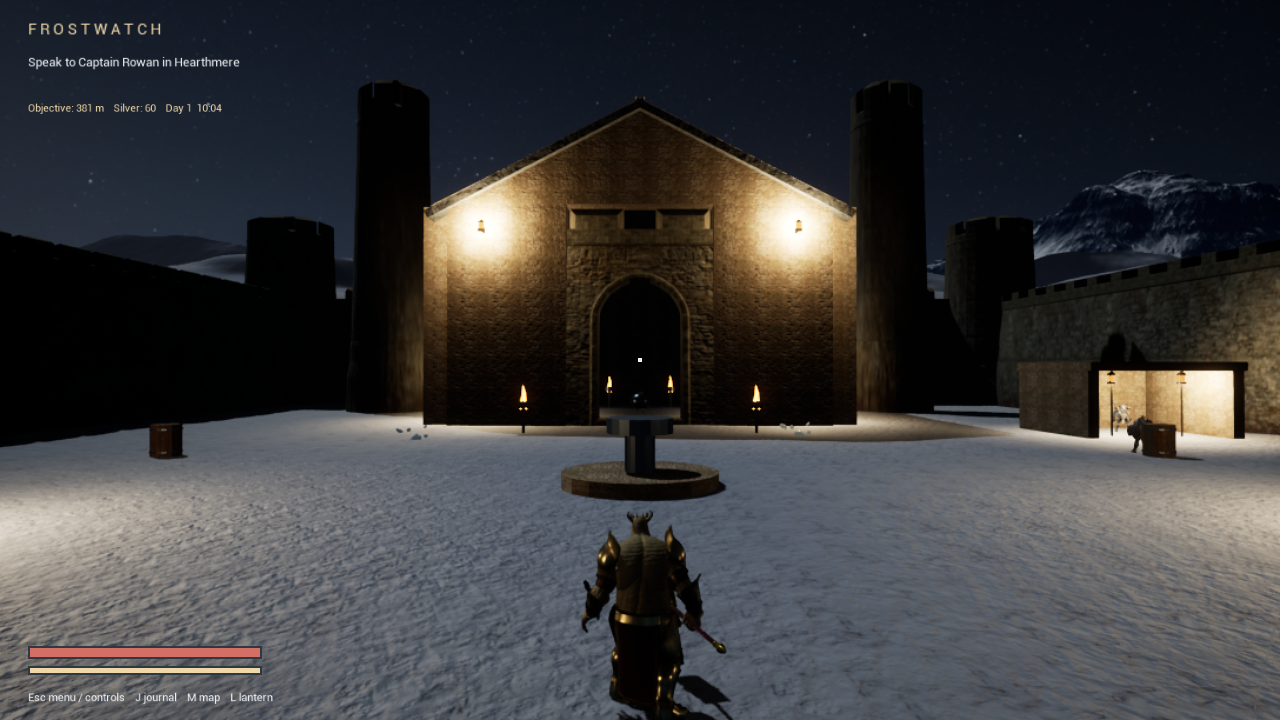
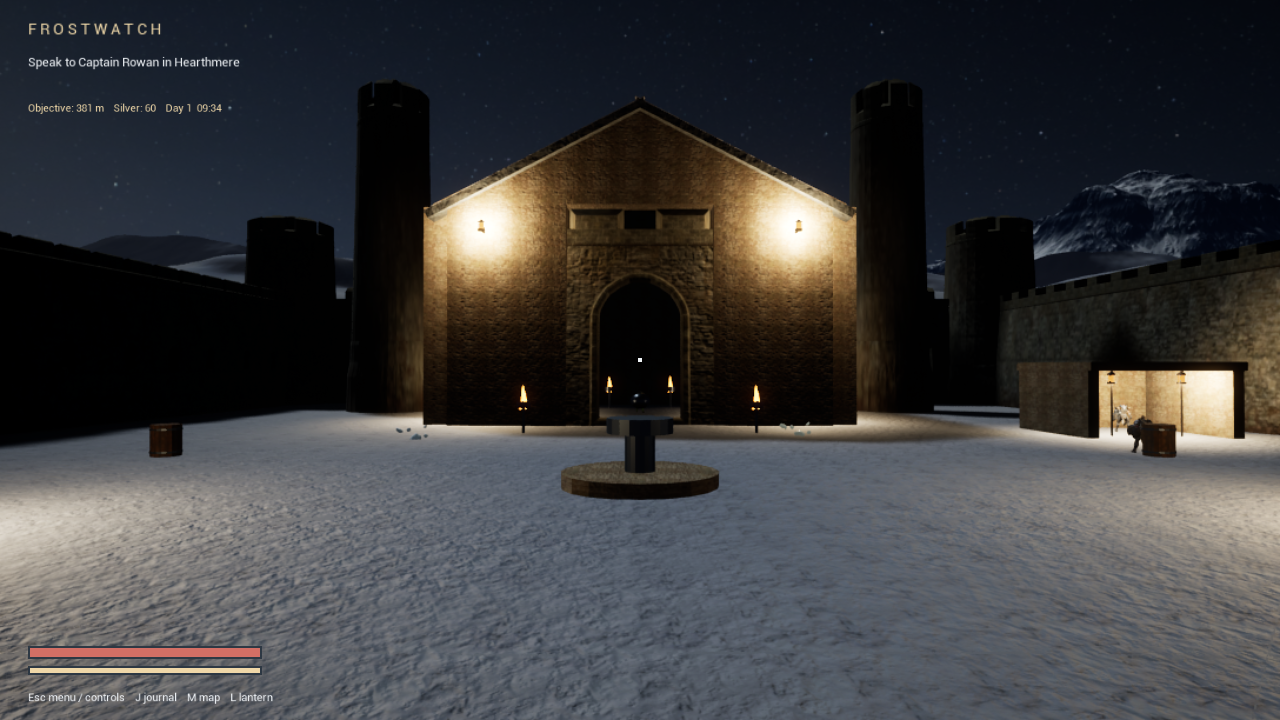
Document preview 0.4 visuals, respawns and measured performance

Changed region(s): [[0.4375, 0.6417, 0.5938, 1.0], [0.9062, 0.6111, 0.9375, 0.6417], [0.125, 0.6111, 0.1562, 0.6417]]

diff --git a/CREDITS.md b/CREDITS.md
@@ -133,7 +133,7 @@ Acquired from the user's already owned Fab library, with no purchase in this pas
 
 - **Procedural Nature Seasons Pack — PurePolygons:** selected winter trees, shrubs, grass, snow banks, fences, mountains, terrain textures and snowfall particles.
 - **Light Foliage — MYTHRA TECH:** selected ground foliage and shrubs.
-- **Water Materials — tharlevfx:** lake and waterfall materials and their dependencies.
+- **Water Materials — tharlevfx:** lake and waterfall materials and their dependencies. The revised Widow's Veil also uses the pack's original waterfall base and arc meshes, matching material instances, a river surface, foam and splash emitters, adapted from its example assembly at a smaller scale. Its rectangular demonstration surrounds are replaced with terrain fitting and scanned rocks.
 - **Hebe Fountain — Pierogi3:** assembled fountain, animated streams, ripples and the supplied splash sound.
 - **Dynamic Sky & Light Manager — Procedural World Lab:** selected sky panoramas and cloud texture. Its incompatible controller is not used; the game supplies its own clock-driven controller.
 
@@ -142,6 +142,14 @@ These assets remain subject to their respective Fab licence terms. Their source 
 ## Recorded sword contact — 15 September 2026
 
 Ben Jaszczak and Brian Nelson, **Medieval sound effects: Weapon impacts / Weapon Textures**, CC0: https://opengameart.org/node/146863 and https://opengameart.org/content/medieval-sound-effects-weapon-textures . Four swings, six clashes and four impacts were selected from recordings, converted to mono 48 kHz PCM, trimmed, faded and levelled. These replace the previous combat tones.
+
+## Mountain Dragon — 15 September 2026
+
+**Quadruped Fantasy Creatures**, PROTOFACTOR INC, confirmed owned in the user's Fab library and imported without purchase. Listing: https://www.fab.com/listings/52d686b6-1180-4f26-901f-ce3c69a14767 . Selected Mountain Dragon mesh, physics, textures and original flight, breath and death animations are used for Ashwing and Rimefang, with game-specific material tinting. This asset retains its applicable Fab licence; it is not CC0. Other creatures and demonstration maps from the pack are excluded from the game integration.
+
+## Waterfall and stream recordings — 15 September 2026
+
+Blender Foundation, **Ambient Mountain, River, Wind and Forest and Waterfall (Yo Frankie!)**, submitted by Lamoot. Source: https://opengameart.org/content/ambient-mountain-river-wind-and-forest-and-waterfall . Licensed under CC BY 3.0: https://creativecommons.org/licenses/by/3.0/ . Selected waterfall and river recordings were downmixed to mono, crossfaded for looping and peak-normalised for positional ambience. Source and output hashes are recorded in SourceAssets/WaterfallAudio/LICENSE-SOURCES.json.
 
 ## Character dialogue — 15 September 2026
 

diff --git a/README.md b/README.md
@@ -2,13 +2,22 @@
 
 A free, single-player fantasy adventure for Windows, built in Unreal Engine. Explore a winter vale, recover three broken oaths, free Edrin and confront the rulers of Frostwatch.
 
-**[Download the Windows preview](https://github.com/JonBoyd2401/Frostwatch/releases/tag/v0.3.0-preview)**
+**[Download the Windows preview](https://github.com/JonBoyd2401/Frostwatch/releases/tag/v0.4.0-preview)**
 
 This is a playable development preview. Performance and animation polish are still being improved; it is not a finished commercial release.
 
+## New in 0.4
+
+- Rebuilt library waterfall, spray, foam and terrain basin.
+- Animated dragon models and softened flame effects.
+- Regional scenery and climate treatments.
+- Ordinary guard/orc respawns after 24 campaign hours, away from the player; named bosses stay defeated.
+- Revised Balanced shadows, sharper permitted textures and bounded system-RAM asset caching.
+- 174 packaged gameplay checks passed. See [measured performance and remaining limitations](PERFORMANCE.md).
+
 ## Install and play
 
-1. Open the release above and download **Frostwatch-Windows-v0.3.0-preview.zip**. GitHub's automatic “Source code” downloads do not contain the game.
+1. Open the release above and download **Frostwatch-Windows-v0.4.0-preview.zip**. GitHub's automatic “Source code” downloads do not contain the game.
 2. Extract the complete ZIP into a writable folder. Keep its Engine and Frostwatch folders alongside the launcher.
 3. Run **Play-Frostwatch.cmd**. You do not need Unreal Editor, an Epic account or a game account.
 4. Choose **New game**. The opening explains your first objective and directs you to Captain Rowan.
@@ -42,7 +51,7 @@ The in-game controls screen shows the full bindings and supports rebinding. Buff
 
 ## Performance and saves
 
-First launch uses a 1280 × 720 window, Balanced quality, 85% render resolution and a 60 FPS ceiling. Fullscreen, resolution and quality can be changed in Settings. Performance mode is available for lower-powered GPUs. Forest performance remains a known limitation. The initial shader/asset load can take longer on a hard disk.
+First launch uses a 1280 × 720 window, Balanced quality, 85% render resolution and a 60 FPS ceiling. Fullscreen, resolution and quality can be changed in Settings. Performance mode is available for lower-powered GPUs. This update improves woodland performance on the development laptop; demanding areas can still drop below 60 FPS. The initial shader/asset load can take longer on a hard disk.
 
 Windows 64-bit and a DirectX 12-capable GPU with Shader Model 6 support are required by this build. Compatibility outside the development laptop has not yet been established. No Mac, Linux, mobile or browser build is included.
 

diff --git a/PERFORMANCE.md b/PERFORMANCE.md
@@ -1,0 +1,26 @@
+# Performance — preview 0.4
+
+Measured on GTX 1060 3 GB, Core i7-8750H and 32 GB RAM. Fullscreen 1280 x 720, uncapped with VSync off, live NPCs, stationary cameras and controlled weather. Balanced render scale is 85% unless stated otherwise.
+
+| Scene / preset | Mean FPS | p95 frame time |
+| --- | ---: | ---: |
+| Woodland, earlier Balanced comparison | 41.1 | 27.11 ms |
+| Woodland, revised Balanced | 53.7 | 21.43 ms |
+| Village, Balanced | 64.6 | 19.12 ms |
+| Waterfall, Balanced | 82.3 | 14.06 ms |
+| Castle courtyard at night, Balanced | 82.1 | 14.15 ms |
+| Castle hall at night, Balanced | 84.5 | 14.59 ms |
+| Active dragon encounter, Balanced | 76.6 | 15.32 ms |
+| Woodland, Performance | 72.5 | 15.73 ms |
+| Woodland, Balanced native 100% | 54.0 | 20.06 ms |
+
+All eight revised configurations passed graphics-memory and render-error checks. The dragon benchmark keeps the diagnostic character invulnerable so the encounter stays active; this does not affect ordinary play. These are controlled measurements, not a minimum FPS guarantee. Other hardware has not been validated.
+
+Balanced retains Lumen lighting and uses cheaper conventional shadows, a 384 MiB texture streaming budget, finer allowed texture mips and reduced foliage wind work beyond 80 metres. High and Epic retain virtual shadows. A 256 MiB asset-read cache and 32 MiB read buffers use system RAM; no isolated FPS gain is attributed to the cache alone.
+
+174 packaged gameplay checks passed. Terrain repetition, angular shorelines and the grove's geometric roots/branches remain visible art limitations. This is a playable preview, not a finished AAA release.
+
+![Library waterfall](Screenshots/waterfall.png)
+![Woodland](Screenshots/woodland.png)
+![Dragon encounter](Screenshots/ashwing.png)
+![Castle courtyard](Screenshots/castle-courtyard.png)
